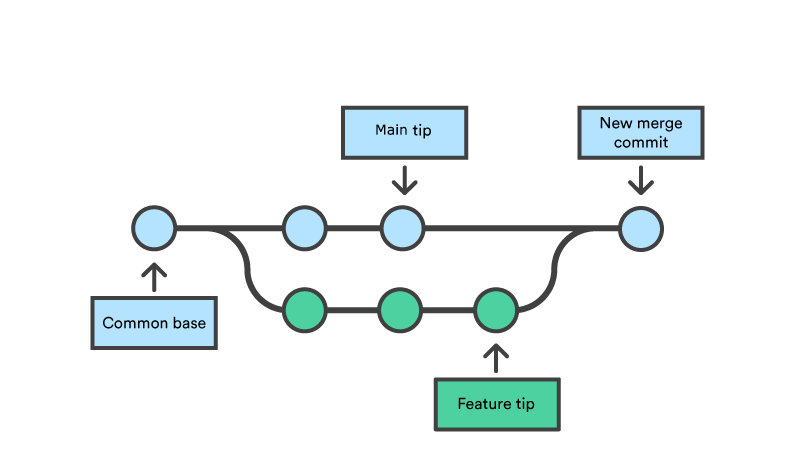
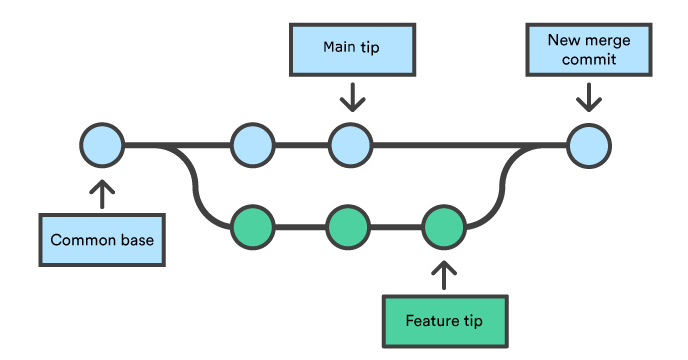
review git slides

Changed region(s): [[0.0305, 0.0611, 0.9462, 0.9778]]

diff --git a/slides/devops/scv/scv-01.md b/slides/devops/scv/scv-01.md
@@ -163,7 +163,7 @@ Vamos a usar un repositorio público de Github:
   git clone https://github.com/sistemas-sw/iiss-git-<curso_actual>.git
 ```
 
-Donde `<curso_actual>` es el curso actual (por ejemplo, `23-24`).
+Donde `<curso_actual>` es el curso actual (por ejemplo, `24-25`).
 
 ---
 
@@ -281,14 +281,18 @@ Las ramas se pueden fusionar entre sí para combinar los cambios realizados en c
 
 ---
 
-### Uso de ramas (I)
+### Crear ramas (i)
 
-Una rama se crea a partir de otra rama existente.
+Una rama se crea a partir de otra rama existente
 
 ![width:300 center](img/Git_branch_new.png)
 
 - `git branch` muestra las ramas existentes
 - Podemos ver la rama actual con `git branch` y con `git status`.
+
+---
+
+### Crear ramas (ii)
 
 Para crear una nueva rama a partir de la rama actual:
 
@@ -304,7 +308,7 @@ git checkout -b <nombre_de_la_rama>
 
 ---
 
-### Uso de ramas (II)
+### Checkout y push de ramas
 
 Cambiar de rama:
 
@@ -317,6 +321,10 @@ Subir una rama al repositorio remoto:
 ```bash
 git push origin <nombre_de_la_rama>
 ```
+
+---
+
+### Eliminar ramas
 
 Eliminar una rama del repositorio local (seguirá existiendo en el repositorio remoto):
 
@@ -334,7 +342,7 @@ git push origin --delete <nombre_de_la_rama>
 
 ### Stash de ramas
 
-Stash permite guardar los cambios realizados en la rama actual para poder cambiar de rama sin tener que hacer un commit.
+Guardar/esconder los cambios realizados en la rama actual para poder cambiar de rama sin tener que hacer un commit
 
 `git stash` - guardar los cambios realizados en la rama actual
 
@@ -346,17 +354,17 @@ Stash permite guardar los cambios realizados en la rama actual para poder cambia
 
 ---
 
-### Fusionar ramas (I)
+### Fusionar ramas (i)
 
 Siempre que se fusionan dos ramas, se crea en la rama actual un nuevo commit que contiene los cambios de ambas ramas:
 
-![width:700 center](img/Branch-merge.png)
+![width:700 center](img/branch-merge.png)
 
 [Ejemplo de fusión de ramas en un repositorio de Git](https://www.atlassian.com/es/git/tutorials/using-branches/git-merge)
 
 ---
 
-### Fusionar ramas (II)
+### Fusionar ramas (ii)
 
 Para fusionar una rama con la rama actual:
 
@@ -407,14 +415,14 @@ Donde `ours` es la rama actual y `theirs` es la rama que estamos fusionando.
 
 ---
 
-### Rebase de ramas (I)
+### Rebase de ramas (i)
 
 Rebase soluciona el mismo problema que la fusión de ramas, pero de forma muy distinta:
 
-- La fusión de ramas crea un nuevo commit que contiene los cambios de ambas ramas
-- El rebase mueve los commits de una rama a otra
+- `merge` crea un nuevo commit que contiene los cambios de ambas ramas
+- `rebase` mueve los commits de una rama a otra
 
-![width:500 center](img/rebase.svg)
+![width:500 center](img/rebase.png)
 
 [Ejemplo de rebase de ramas en un repositorio de Git](https://www.atlassian.com/es/git/tutorials/merging-vs-rebasing)
 
@@ -431,13 +439,17 @@ Rebase soluciona el mismo problema que la fusión de ramas, pero de forma muy di
 
 ---
 
-### Rebase de ramas (II)
+### Rebase de ramas (ii)
 
 Para hacer un rebase de una rama con la rama actual:
 
 ```bash
 git rebase <nombre_de_la_rama>
 ```
+
+---
+
+### Rebase de ramas (iii)
 
 1. Crear una rama llamada `feature_rebase` a partir de la rama actual y cambiar a ella
 2. Crea un archivo `feature_rebase.txt`
@@ -451,11 +463,10 @@ git rebase <nombre_de_la_rama>
 
 ---
 
-### Rebase de ramas (III)
+### Rebase de ramas (iv)
 
-En resumen, rebase actualiza el historial de cambios de una rama con el historial de cambios de otra rama.
-
-Es muy útil para mantener el historial de cambios de una rama "limpio" y ordenado.
+- Rebase actualiza el historial de cambios de una rama con el historial de cambios de otra rama.
+- Es muy útil para mantener el historial de cambios de una rama "limpio" y ordenado.
 
 **Suele usarse en ramas de desarrollo que se fusionan con la rama principal del proyecto.**
 
@@ -468,22 +479,22 @@ Rebase es una operación muy potente, pero también muy peligrosa:
 
 ## Archivos especiales de git
 
-El archivo `.gitignore` permite ignorar archivos y directorios que no queremos añadir al repositorio.
+Archivo `.gitignore` 
 
-- Los archivos y directorios que queremos ignorar se añaden al archivo `.gitignore`
-- En caso de querer añadir una excepción a un archivo o directorio ignorado, se puede forzar su inclusión con `!` dentro del archivo `.gitignore`
-- En caso de querer añadir un archivo o directorio ignorado, se puede forzar su inclusión con `git add -f`
+- Indica los archivos y directorios que no queremos añadir al repositorio
+- Para añadir una excepción a un archivo o directorio ignorado, se puede forzar su inclusión con `!`
+- Para añadir un archivo o directorio ignorado, se puede forzar su inclusión con `git add -f`
 
-El archivo `.gitkeep` permite añadir un directorio vacío al repositorio.
+Archivo `.gitkeep`:
 
 - Git no permite añadir directorios vacíos al repositorio
 - Para añadir un directorio vacío, se crea un archivo `.gitkeep` dentro del directorio
 
 ---
 
-## Herramientas para trabajar con Git
+## Otras herramientas para trabajar con Git
 
-Algunas herramientas para trabajar con Git mediante una interfaz gráfica:
+Herramientas con interfaz gráfica:
 
 - [SourceTree](https://www.sourcetreeapp.com/)
 - [Git for Windows](https://gitforwindows.org/)
@@ -491,7 +502,7 @@ Algunas herramientas para trabajar con Git mediante una interfaz gráfica:
 - [Git Extensions](https://gitextensions.github.io/)
 - [TortoiseGit](https://tortoisegit.org/)
 
-Los IDEs más populares también tienen integración con Git.
+Los IDEs más populares (VS Code, JetBrains', etc.) tienen integración con Git
 
 ---
 
@@ -526,7 +537,7 @@ Los IDEs más populares también tienen integración con Git.
 
 1. Crear un repositorio en GitHub
 2. Clonar el repositorio en local
-3. Añadir cambios a la rama `main` añadiendo un directorio vacío y un archivo .gitignore para ignorar todos los archivos markdown excepto el README.md y el LICENSE.md
+3. Añadir cambios a la rama `main` añadiendo un directorio vacío y un archivo `.gitignore` para ignorar todos los archivos markdown excepto el `README.md` y el `LICENSE.md`
 4. Crea una rama `feature` y añade cambios a esa rama
 5. Crear dos ramas desde main, añadir cambios, fusionarlas en main y eliminarlas. Una de las ramas debe contener conflictos a resolver
 6. Hacer rebase de la rama `feature` con la rama `main`
